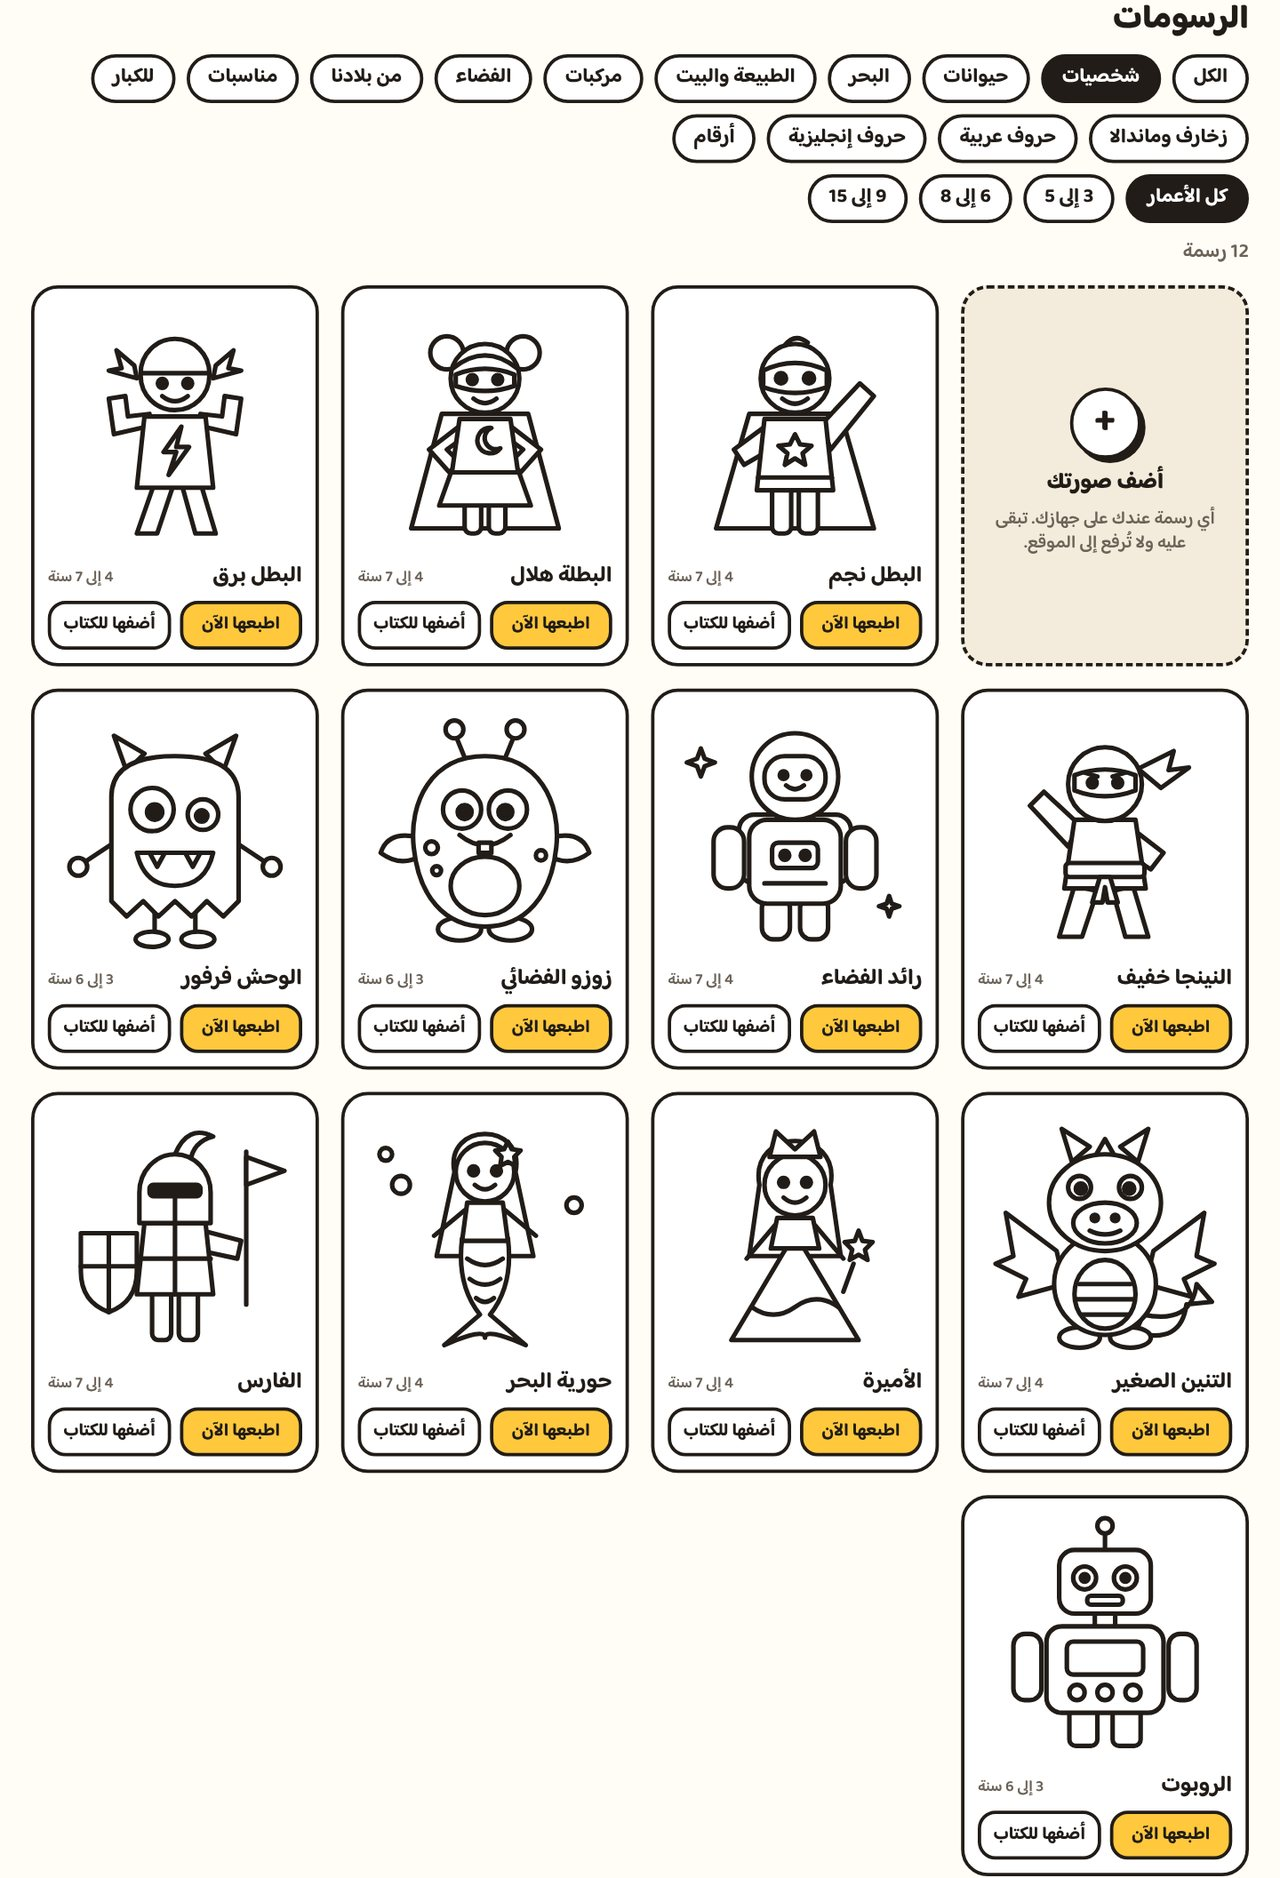
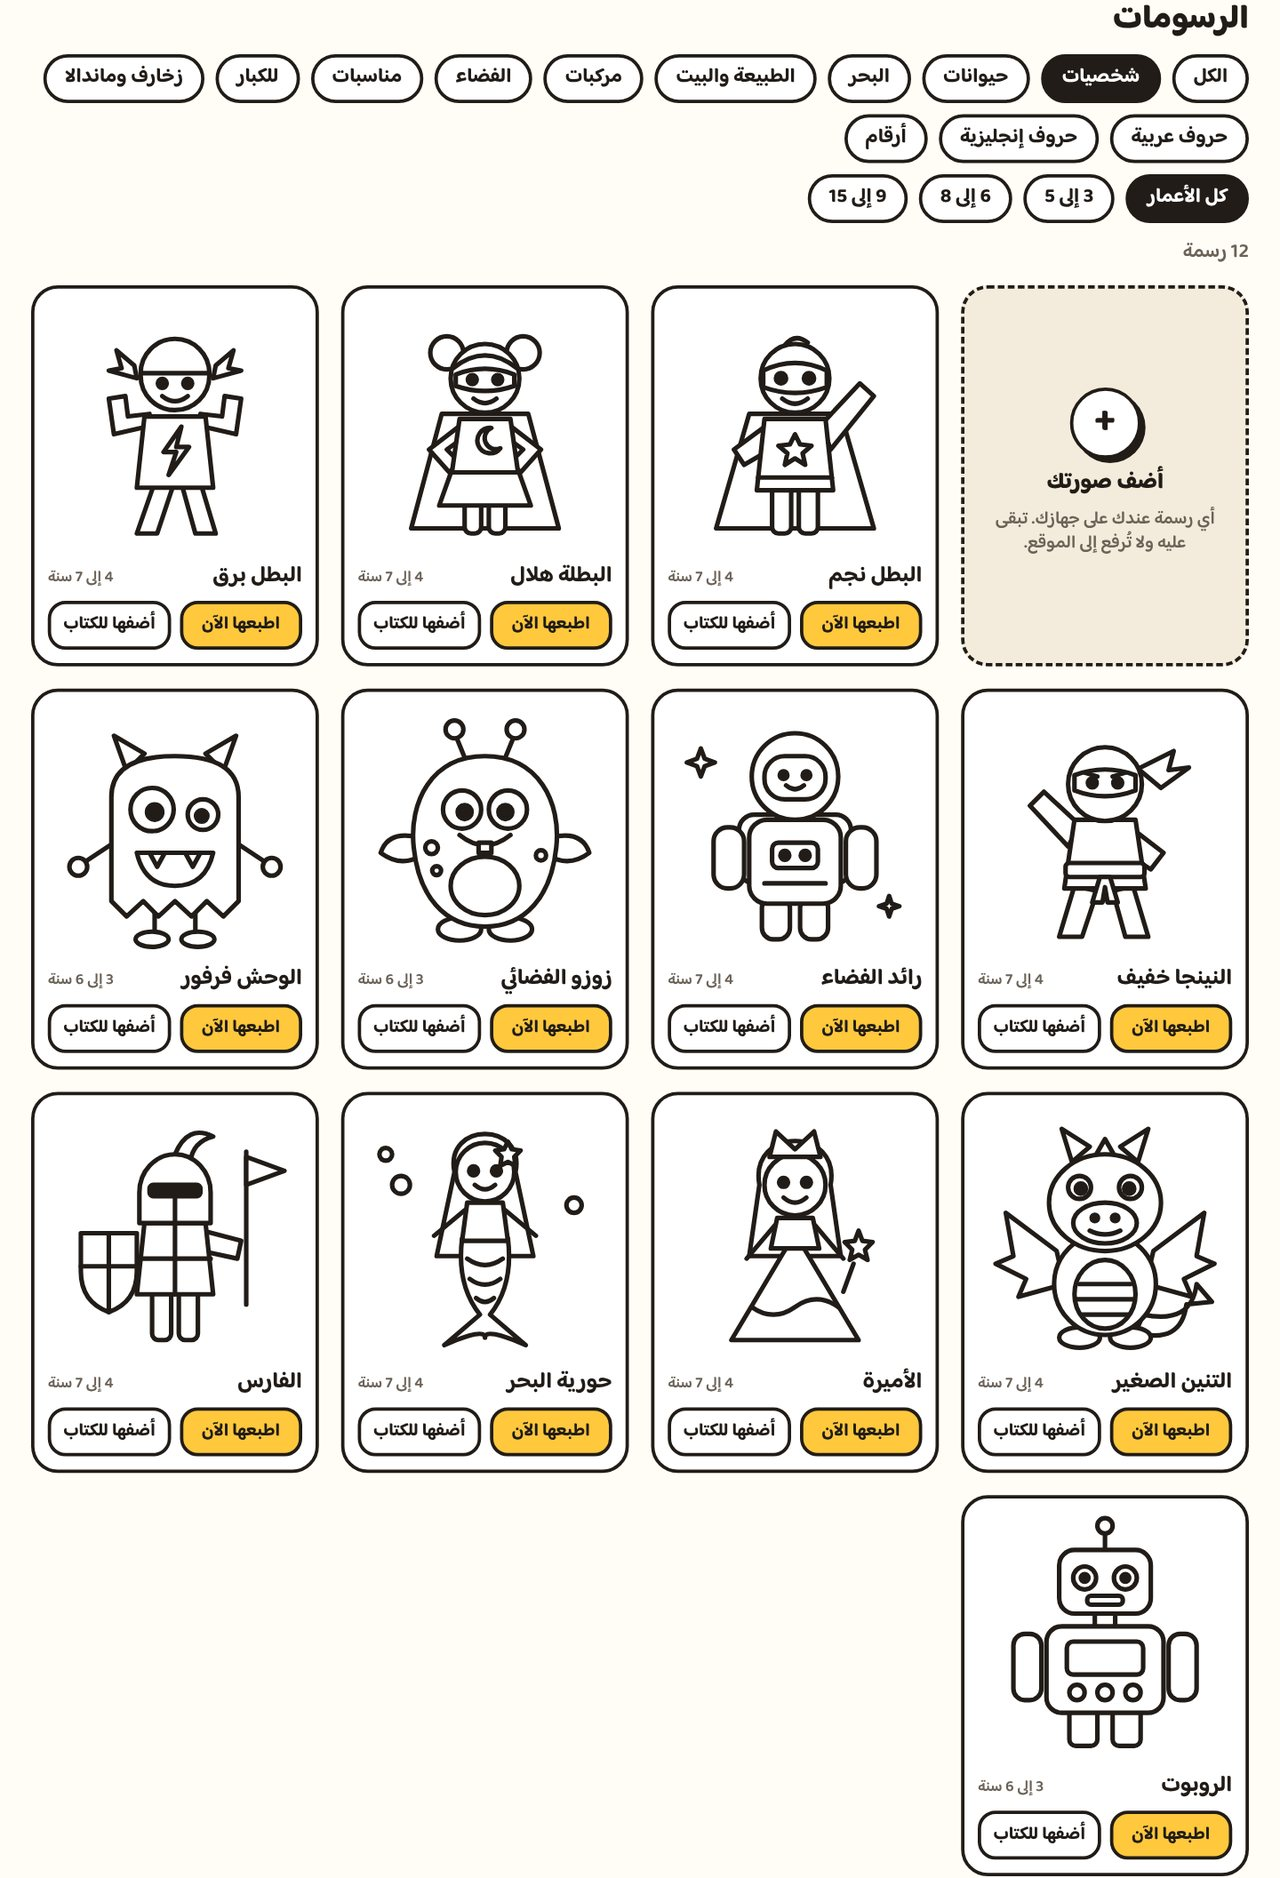
Remove the "From our country" group
The group, its ready-made book and three of its drawings are gone.
The camel, the palm and the dallah stay only as the pictures on the
letter pages for ج, ن and د; they are not in the gallery and cannot
be opened on their own.

Claude-Session: https://claude.ai/code/session_01TkRPnwSefusrgepjoER5a5

Changed region(s): [[0.5312, 0.0618, 0.9688, 0.0927], [0.0312, 0.0309, 0.3125, 0.0618]]

diff --git a/src/drawings/wordPictures.js b/src/drawings/wordPictures.js
@@ -1,4 +1,4 @@
-// Things from the Arabian Peninsula.
+// Drawings that only illustrate a word on a letter page ("ج جمل"). They are not shown in the gallery.
 export default [
   {
     id: 'camel',
@@ -17,23 +17,5 @@ export default [
     name: { ar: 'دلّة', en: 'Coffee pot' },
     age: [5, 9],
     art: `<path d="M148 158h32l-5 24h-22z"/><path class="o" d="M150 168h28"/><path d="M118 98C152 94 160 132 134 152L127 143C144 130 140 110 118 110z"/><path d="M88 98C62 84 46 86 30 72C42 104 62 112 82 114z"/><path d="M76 176C58 150 68 118 86 100L84 84H116L114 100C132 118 142 150 124 176z"/><path class="o" d="M72 132h56M70 148h60"/><path d="M84 84C84 62 116 62 116 84z"/><path d="M96 66l4-16l4 16z"/><circle cx="100" cy="46" r="5"/><rect x="70" y="176" width="60" height="9" rx="3"/>`,
-  },
-  {
-    id: 'falcon',
-    name: { ar: 'صقر', en: 'Falcon' },
-    age: [5, 9],
-    art: `<rect x="38" y="174" width="124" height="11" rx="5"/><path class="o" d="M86 174v-10M94 174v-10M106 174v-10M114 174v-10"/><path d="M100 40C134 40 144 82 140 120C136 152 120 168 100 172C80 168 64 152 60 120C56 82 66 40 100 40z"/><path d="M62 98C46 130 54 160 76 172C68 150 68 124 72 102z"/><path d="M138 98C154 130 146 160 124 172C132 150 132 124 128 102z"/><circle cx="84" cy="70" r="9"/><circle cx="116" cy="70" r="9"/><circle cx="85" cy="71" r="3.5" class="d"/><circle cx="115" cy="71" r="3.5" class="d"/><path d="M91 82h18q-2 14-9 20q-7-6-9-20z"/><path class="o" d="M82 120q6 6 12 0t12 0t12 0M86 136q7 6 14 0t14 0M92 152q4 5 8 0t8 0"/>`,
-  },
-  {
-    id: 'mudhouse',
-    name: { ar: 'بيت طيني', en: 'Mud-brick house' },
-    age: [5, 9],
-    art: `<path class="o" d="M20 178h160"/><path d="M40 178V72h4l6-10l6 10h8l6-10l6 10h8l6-10l6 10h8l6-10l6 10h8l6-10l6 10h8l6-10l6 10h4V178z"/><path d="M86 178v-44a14 14 0 0 1 28 0v44z"/><path class="o" d="M100 120v58M86 150h28"/><path d="M54 116l8-12l8 12z"/><path d="M130 116l8-12l8 12z"/><path d="M54 92l8-12l8 12z"/><path d="M130 92l8-12l8 12z"/><path class="o" d="M40 128h30M130 128h30"/>`,
-  },
-  {
-    id: 'dhow',
-    name: { ar: 'قارب صيد', en: 'Dhow' },
-    age: [5, 9],
-    art: `<path class="o" d="M94 132V26"/><path d="M94 26l20 7l-20 7z"/><path d="M96 46L170 120L58 116z"/><path class="o" d="M82 96L150 118"/><path d="M18 124C40 170 150 174 186 116L152 132H50z"/><path class="o" d="M40 146h112"/><path class="o" d="M8 184q12-10 24 0t24 0t24 0t24 0t24 0t24 0t24 0t16-4"/>`,
   },
 ]

diff --git a/src/drawings/base.js b/src/drawings/base.js
@@ -1,12 +1,12 @@
 import animals from './animals.js'
 import characters from './characters.js'
-import local from './local.js'
 import nature from './nature.js'
 import objects from './objects.js'
 import occasions from './occasions.js'
 import sea from './sea.js'
 import space from './space.js'
 import vehicles from './vehicles.js'
+import wordPictures from './wordPictures.js'
 
 // The drawings made by hand. Every one sits in a 200 by 200 box.
 // See characters.js for how a drawing is written.
@@ -17,11 +17,10 @@ export const handGroups = [
   { id: 'nature', name: { ar: 'الطبيعة والبيت', en: 'Nature and home' }, items: nature },
   { id: 'vehicles', name: { ar: 'مركبات', en: 'Vehicles' }, items: vehicles },
   { id: 'space', name: { ar: 'الفضاء', en: 'Space' }, items: space },
-  { id: 'local', name: { ar: 'من بلادنا', en: 'From our country' }, items: local },
   { id: 'occasions', name: { ar: 'مناسبات', en: 'Occasions' }, items: occasions },
   { id: 'objects', name: { ar: 'للكبار', en: 'For older children' }, items: objects },
 ]
 
-const index = new Map(handGroups.flatMap((group) => group.items.map((item) => [item.id, item])))
+const index = new Map([...handGroups.flatMap((group) => group.items), ...wordPictures].map((item) => [item.id, item]))
 
 export const handDrawing = (id) => index.get(id)

diff --git a/src/drawings/index.js b/src/drawings/index.js
@@ -1,5 +1,5 @@
 import { featuredPatterns, makeItem } from '../makers/index.js'
-import { handDrawing, handGroups } from './base.js'
+import { handGroups } from './base.js'
 import { arabic, english, numbers } from './letters.js'
 
 // Everything the gallery shows: the hand-made drawings, a set of chosen mandalas and
@@ -14,11 +14,10 @@ export const groups = [
 
 export const drawings = groups.flatMap((group) => group.items.map((item) => ({ ...item, group: group.id })))
 
-const letterIndex = new Map([...arabic, ...english, ...numbers].map((item) => [item.id, item]))
+// Only what the gallery shows can be opened by its id. Drawings kept just to illustrate a word are left out.
+const stored = new Map(drawings.filter((item) => item.group !== 'patterns').map((item) => [item.id, item]))
 
 /** A drawing or made page by its reference. */
 export function drawingById(id) {
-  const stored = handDrawing(id) ?? letterIndex.get(id)
-  if (stored) return { ...stored, group: stored.group ?? groups.find((group) => group.items.includes(stored))?.id }
-  return makeItem(id)
+  return stored.get(id) ?? makeItem(id)
 }

diff --git a/src/lib/packs.js b/src/lib/packs.js
@@ -9,7 +9,6 @@ const group = (id) => handGroups.find((item) => item.id === id).items.map((item)
 export const packs = [
   { id: 'animals', name: { ar: 'كتاب الحيوانات', en: 'The animals book' }, cover: 'lion', refs: group('animals') },
   { id: 'heroes', name: { ar: 'كتاب الأبطال', en: 'The heroes book' }, cover: 'hero', refs: group('characters') },
-  { id: 'local', name: { ar: 'كتاب من بلادنا', en: 'From our country' }, cover: 'camel', refs: group('local') },
   { id: 'eid', name: { ar: 'كتاب العيد ورمضان', en: 'Eid and Ramadan' }, cover: 'lantern', refs: ['lantern', 'hilal', 'mosque', 'gift', 'cake', 'balloons'] },
   { id: 'travel', name: { ar: 'كتاب البحر والفضاء', en: 'Sea and space' }, cover: 'rocket', refs: [...group('sea'), ...group('space'), ...group('vehicles')] },
   { id: 'letters', name: { ar: 'كتاب الحروف العربية', en: 'Arabic letters' }, cover: 'ar-2', refs: arabic.map((item) => item.id) },

diff --git a/src/components/Tile.jsx b/src/components/Tile.jsx
@@ -6,7 +6,7 @@ import Art from './Art.jsx'
 import { Check } from './icons.jsx'
 
 // A chosen tile is tinted, as if someone had started coloring it.
-const tints = { sea: '#e3f1ff', english: '#e3f1ff', maze: '#e3f1ff', nature: '#e6f6ea', numbers: '#e6f6ea', local: '#e6f6ea', dots: '#e6f6ea', vehicles: '#ffe6e0', occasions: '#ffe6e0', space: '#efe7ff', patterns: '#efe7ff', objects: '#efe7ff', picture: '#f3ecdc' }
+const tints = { sea: '#e3f1ff', english: '#e3f1ff', maze: '#e3f1ff', nature: '#e6f6ea', numbers: '#e6f6ea', dots: '#e6f6ea', vehicles: '#ffe6e0', occasions: '#ffe6e0', space: '#efe7ff', patterns: '#efe7ff', objects: '#efe7ff', picture: '#f3ecdc' }
 
 export const ageLabel = (age, lang) => (lang === 'ar' ? `${age[0]} إلى ${age[1]} سنة` : `ages ${age[0]} to ${age[1]}`)
 

diff --git a/src/pages/Home.jsx b/src/pages/Home.jsx
@@ -110,7 +110,7 @@ export default function Home() {
             {t('Surprise me', 'فاجئني')}
           </button>
         </div>
-        <ul className="mt-4 grid grid-cols-2 gap-3 sm:grid-cols-4 lg:grid-cols-8">
+        <ul className="mt-4 grid grid-cols-2 gap-3 sm:grid-cols-4 lg:grid-cols-7">
           {packs.map((pack) => (
             <li key={pack.id} className="min-w-0">
               <button type="button" className="card flex h-full w-full flex-col items-center gap-1 p-2.5 text-center transition-transform hover:-translate-y-0.5" onClick={() => make(pack.refs)}>

diff --git a/README.md b/README.md
@@ -12,7 +12,7 @@ Everything runs in the browser. There is no server, and pictures you add never l
 
 ### Drawings
 
-- **58 original drawings** in nine groups: characters, animals, the sea, nature and home, vehicles, space, from our country (a camel, a palm, a dallah, a falcon, a mud house, a dhow), occasions (a lantern, a crescent, a mosque, a cake and more) and things for older children (a controller, a sneaker, headphones, a guitar and more).
+- **52 original drawings** in eight groups: characters, animals, the sea, nature and home, vehicles, space, occasions (a lantern, a crescent, a mosque, a cake and more) and things for older children (a controller, a sneaker, headphones, a guitar and more).
 - **Mandalas and patterns** for older children, up to 15: eight mandalas in three levels of detail, and star, honeycomb and tile patterns.
 - **A page for every letter and number:** the 28 Arabic letters, A to Z, and 0 to 9, each as one large outline.
 - **Filter by age:** three ranges, the oldest 9 to 15.
@@ -50,7 +50,7 @@ Whole sheets to color and then cut or fold: a certificate and a door sign with t
 - **Two a sheet,** with a dashed line to cut along.
 - **A coloring book.** Sheets folded in half. The site puts every page where it has to go, so the folded stack reads in order, opening from the right in Arabic and from the left in English.
 - **A printer that prints one side only** still gets a book: each sheet carries two pages on one side, is folded on its own with the print outside, and the sheets are stapled at their open edges.
-- **Ready-made books:** eight sets (animals, heroes, from our country, Eid and Ramadan, and more), and "surprise me" for a random one.
+- **Ready-made books:** seven sets (animals, heroes, Eid and Ramadan, sea and space, and more), and "surprise me" for a random one.
 - **Share a book by link.** The link carries the chosen drawings and settings, nothing else. Pictures you added are not in it.
 - **What will the child color with?** Pencils and crayons print on both sides. Felt pens and watercolors soak through, so in a two-sided book each drawing gets a leaf of its own, and the site says which paper to use.
 - **Paper:** A4, Letter or A5. **Lines:** thick for little ones, medium or thin.
